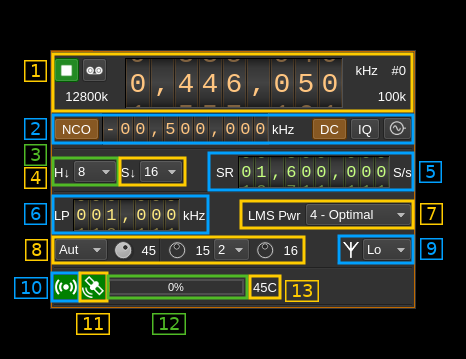
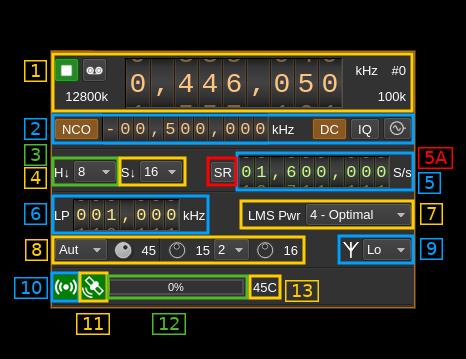
XTRX input: implemented baseband or device sample rate input option

Changed region(s): [[0.8712, 0.3983, 0.9914, 0.5515], [0.4206, 0.3983, 0.5107, 0.5515]]

diff --git a/plugins/samplesource/xtrxinput/xtrxinputgui.cpp b/plugins/samplesource/xtrxinput/xtrxinputgui.cpp
@@ -37,6 +37,7 @@ XTRXInputGUI::XTRXInputGUI(DeviceUISet *deviceUISet, QWidget* parent) :
     ui(new Ui::XTRXInputGUI),
     m_deviceUISet(deviceUISet),
     m_settings(),
+    m_sampleRateMode(true),
     m_sampleRate(0),
     m_lastEngineState((DSPDeviceSourceEngine::State)-1),
     m_doApplySettings(true),
@@ -277,7 +278,39 @@ void XTRXInputGUI::updateSampleRateAndFrequency()
 {
     m_deviceUISet->getSpectrum()->setSampleRate(m_sampleRate);
     m_deviceUISet->getSpectrum()->setCenterFrequency(m_deviceCenterFrequency);
-    ui->deviceRateLabel->setText(tr("%1k").arg(QString::number(m_sampleRate / 1000.0f, 'g', 5)));
+    displaySampleRate();
+}
+
+void XTRXInputGUI::displaySampleRate()
+{
+    float minF, maxF, stepF;
+    m_XTRXInput->getSRRange(minF, maxF, stepF);
+
+    ui->sampleRate->blockSignals(true);
+
+    if (m_sampleRateMode)
+    {
+        ui->sampleRateMode->setStyleSheet("QToolButton { background:rgb(60,60,60); }");
+        ui->sampleRateMode->setText("SR");
+        ui->sampleRate->setValueRange(8, (uint32_t) minF, (uint32_t) maxF);
+        ui->sampleRate->setValue(m_settings.m_devSampleRate);
+        ui->sampleRate->setToolTip("Device to host sample rate (S/s)");
+        ui->deviceRateText->setToolTip("Baseband sample rate (S/s)");
+        uint32_t basebandSampleRate = m_settings.m_devSampleRate/(1<<m_settings.m_log2SoftDecim);
+        ui->deviceRateText->setText(tr("%1k").arg(QString::number(basebandSampleRate / 1000.0f, 'g', 5)));
+    }
+    else
+    {
+        ui->sampleRateMode->setStyleSheet("QToolButton { background:rgb(50,50,50); }");
+        ui->sampleRateMode->setText("BB");
+        ui->sampleRate->setValueRange(8, (uint32_t) minF/(1<<m_settings.m_log2SoftDecim), (uint32_t) maxF/(1<<m_settings.m_log2SoftDecim));
+        ui->sampleRate->setValue(m_settings.m_devSampleRate/(1<<m_settings.m_log2SoftDecim));
+        ui->sampleRate->setToolTip("Baseband sample rate (S/s)");
+        ui->deviceRateText->setToolTip("Device to host sample rate (S/s)");
+        ui->deviceRateText->setText(tr("%1k").arg(QString::number(m_settings.m_devSampleRate / 1000.0f, 'g', 5)));
+    }
+
+    ui->sampleRate->blockSignals(false);
 }
 
 void XTRXInputGUI::displaySettings()
@@ -286,7 +319,7 @@ void XTRXInputGUI::displaySettings()
     ui->extClock->setExternalClockActive(m_settings.m_extClock);
 
     setCenterFrequencyDisplay();
-    ui->sampleRate->setValue(m_settings.m_devSampleRate);
+    displaySampleRate();
 
     ui->dcOffset->setChecked(m_settings.m_dcBlock);
     ui->iqImbalance->setChecked(m_settings.m_iqCorrection);
@@ -503,7 +536,12 @@ void XTRXInputGUI::on_iqImbalance_toggled(bool checked)
 
 void XTRXInputGUI::on_sampleRate_changed(quint64 value)
 {
-    m_settings.m_devSampleRate = value;
+    if (m_sampleRateMode) {
+        m_settings.m_devSampleRate = value;
+    } else {
+        m_settings.m_devSampleRate = value * (1 << m_settings.m_log2SoftDecim);
+    }
+
     updateADCRate();
     setNCODisplay();
     sendSettings();}
@@ -513,6 +551,14 @@ void XTRXInputGUI::on_hwDecim_currentIndexChanged(int index)
     if ((index <0) || (index > 5))
         return;
     m_settings.m_log2HardDecim = index;
+    displaySampleRate();
+
+    if (m_sampleRateMode) {
+        m_settings.m_devSampleRate = ui->sampleRate->getValueNew();
+    } else {
+        m_settings.m_devSampleRate = ui->sampleRate->getValueNew() * (1 << m_settings.m_log2SoftDecim);
+    }
+
     updateADCRate();
     setNCODisplay();
     sendSettings();
@@ -520,8 +566,10 @@ void XTRXInputGUI::on_hwDecim_currentIndexChanged(int index)
 
 void XTRXInputGUI::on_swDecim_currentIndexChanged(int index)
 {
-    if ((index <0) || (index > 6))
+    if ((index <0) || (index > 6)) {
         return;
+    }
+
     m_settings.m_log2SoftDecim = index;
     sendSettings();
 }
@@ -599,6 +647,12 @@ void XTRXInputGUI::on_pwrmode_currentIndexChanged(int index)
 {
     m_settings.m_pwrmode = index;
     sendSettings();
+}
+
+void XTRXInputGUI::on_sampleRateMode_toggled(bool checked)
+{
+    m_sampleRateMode = checked;
+    displaySampleRate();
 }
 
 void XTRXInputGUI::openDeviceSettingsDialog(const QPoint& p)

diff --git a/plugins/samplesource/xtrxinput/xtrxinputgui.h b/plugins/samplesource/xtrxinput/xtrxinputgui.h
@@ -57,6 +57,7 @@ private:
     DeviceUISet* m_deviceUISet;
     XTRXInput* m_XTRXInput; //!< Same object as above but gives easy access to XTRXInput methods and attributes that are used intensively
     XTRXInputSettings m_settings;
+    bool m_sampleRateMode; //!< true: device, false: base band sample rate update mode
     QTimer m_updateTimer;
     QTimer m_statusTimer;
     int m_sampleRate;
@@ -69,6 +70,7 @@ private:
     MessageQueue m_inputMessageQueue;
 
     void displaySettings();
+    void displaySampleRate();
     void setNCODisplay();
     void setCenterFrequencyDisplay();
     void setCenterFrequencySetting(uint64_t kHzValue);
@@ -98,6 +100,7 @@ private slots:
     void on_antenna_currentIndexChanged(int index);
     void on_extClock_clicked();
     void on_pwrmode_currentIndexChanged(int index);
+    void on_sampleRateMode_toggled(bool checked);
 
     void updateHardware();
     void updateStatus();

diff --git a/plugins/samplesink/xtrxoutput/xtrxoutputplugin.cpp b/plugins/samplesink/xtrxoutput/xtrxoutputplugin.cpp
@@ -1,5 +1,5 @@
 ///////////////////////////////////////////////////////////////////////////////////
-// Copyright (C) 2015 Edouard Griffiths, F4EXB                                   //
+// Copyright (C) 2019 Edouard Griffiths, F4EXB                                   //
 //                                                                               //
 // This program is free software; you can redistribute it and/or modify          //
 // it under the terms of the GNU General Public License as published by          //
@@ -34,7 +34,7 @@
 
 const PluginDescriptor XTRXOutputPlugin::m_pluginDescriptor = {
     QString("XTRX Output"),
-    QString("4.5.2"),
+    QString("4.5.4"),
     QString("(c) Edouard Griffiths, F4EXB"),
     QString("https://github.com/f4exb/sdrangel"),
     true,

diff --git a/plugins/samplesource/xtrxinput/xtrxinputplugin.cpp b/plugins/samplesource/xtrxinput/xtrxinputplugin.cpp
@@ -1,5 +1,5 @@
 ///////////////////////////////////////////////////////////////////////////////////
-// Copyright (C) 2017 Edouard Griffiths, F4EXB                                   //
+// Copyright (C) 2019 Edouard Griffiths, F4EXB                                   //
 // Copyright (C) 2017 Sergey Kostanbaev, Fairwaves Inc.                          //
 //                                                                               //
 // This program is free software; you can redistribute it and/or modify          //
@@ -35,7 +35,7 @@
 
 const PluginDescriptor XTRXInputPlugin::m_pluginDescriptor = {
     QString("XTRX Input"),
-    QString("4.5.2"),
+    QString("4.5.4"),
     QString("(c) Edouard Griffiths, F4EXB"),
     QString("https://github.com/f4exb/sdrangel"),
     true,

diff --git a/plugins/samplesource/xtrxinput/readme.md b/plugins/samplesource/xtrxinput/readme.md
@@ -74,7 +74,9 @@ This is the sample rate at which the ADC runs in kS/s (k) or MS/s (M) before har
 
 <h4>1.5: Stream sample rate</h4>
 
-Baseband I/Q sample rate in kS/s. This is the device to host sample rate (5) divided by the software decimation factor (4).
+In device to host sample rate input mode (5A) this is the baseband I/Q sample rate in kS/s. This is the device to host sample rate (5) divided by the software decimation factor (4).
+
+In baseband sample rate input mode (5A) this is the device to host sample rate in kS/s. This is the baseband sample rate (5) multiplied by the software decimation factor (4)
 
 <h4>1.6: Channel number</h4>
 
@@ -140,9 +142,18 @@ The first position in the combo is marked as "A". This is because decimation by 
 
 The I/Q stream from the XTRX is downsampled by a power of two by software inside the plugin before being sent to the passband. Possible values are increasing powers of two: 1 (no decimation), 2, 4, 8, 16, 32.
 
-<h3>5: Device to host stream sample rate</h3>
+<h3>5A: Device to host sample rate / Baseband sample rate input toggle</h3>
 
-This is the XTRX device to/from host stream sample rate in S/s. It is the same for the Rx and Tx systems.
+Use this toggle button to switch the sample rate input next (5) between device to host sample rate and baseband sample rate input. The button shows the current mode:
+
+  - **SR**: device to host sample rate input mode. The baseband sample rate (1.5) is the device to host sample rate (5) divided by the software decimation factor (4).
+  - **BB**: baseband sample rate input mode. The device to host sample rate (1.5) is the baseband sample rate (5) multiplied by the software decimation factor (4).
+
+<h3>5: Sample rate</h3>
+
+This is the XTRX device to/from host stream sample rate or baseband sample rate in samples per second (S/s). The control (5A) is used to switch between the two input modes. The device to/from host stream sample rate is the same for the Rx and Tx systems.
+
+The limits are adjusted automatically. In baseband input mode the limits are driven by the decimation factor (4). You may need to increase this decimation factor to be able to reach lower values.
 
 Use the wheels to adjust the sample rate. Pressing shift simultaneously moves digit by 5 and pressing control moves it by 2. Left click on a digit sets the cursor position at this digit. Right click on a digit sets all digits on the right to zero. This effectively floors value at the digit position. Wheels are moved with the mousewheel while pointing at the wheel or by selecting the wheel with the left mouse click and using the keyboard arrows.
 
